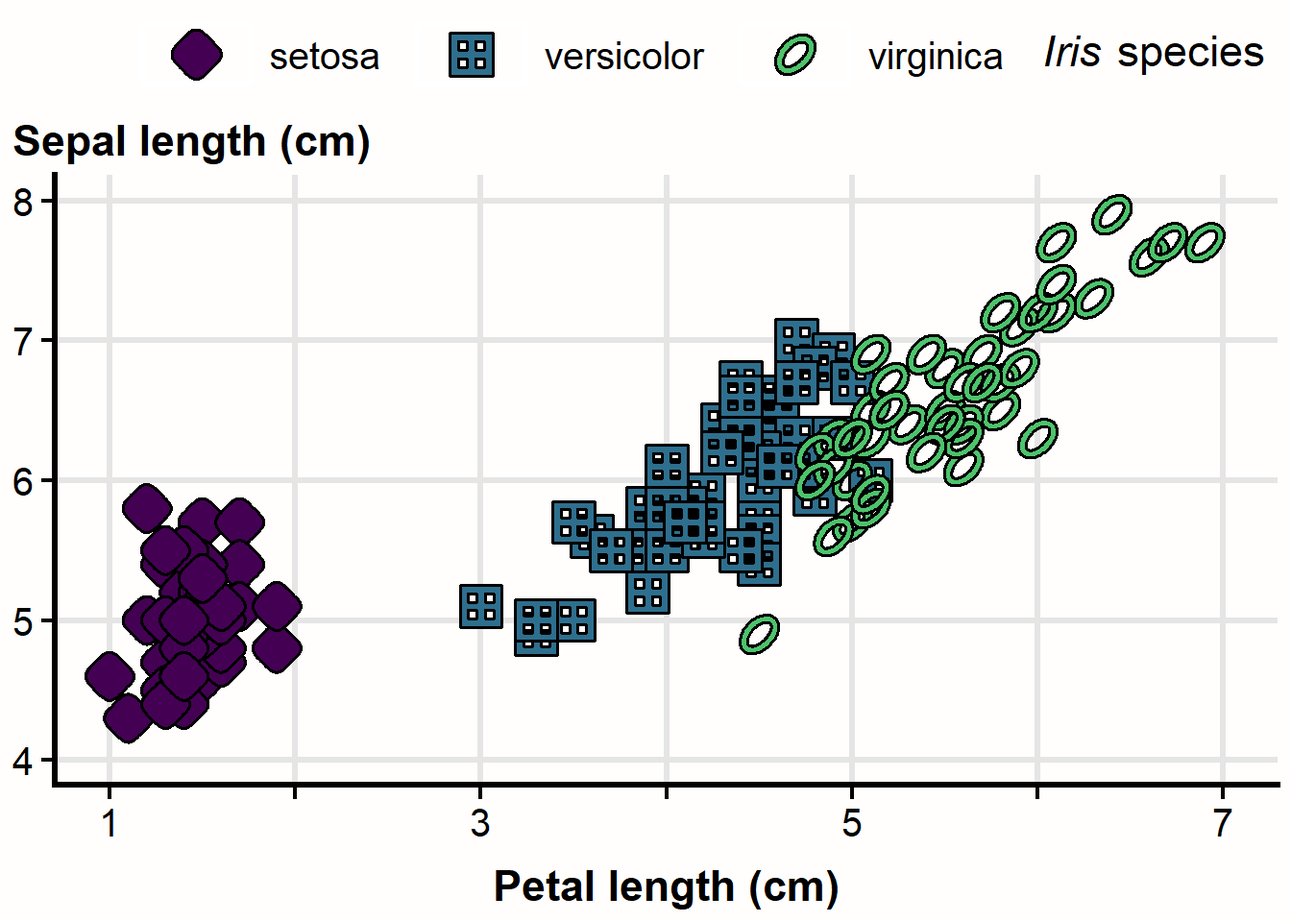
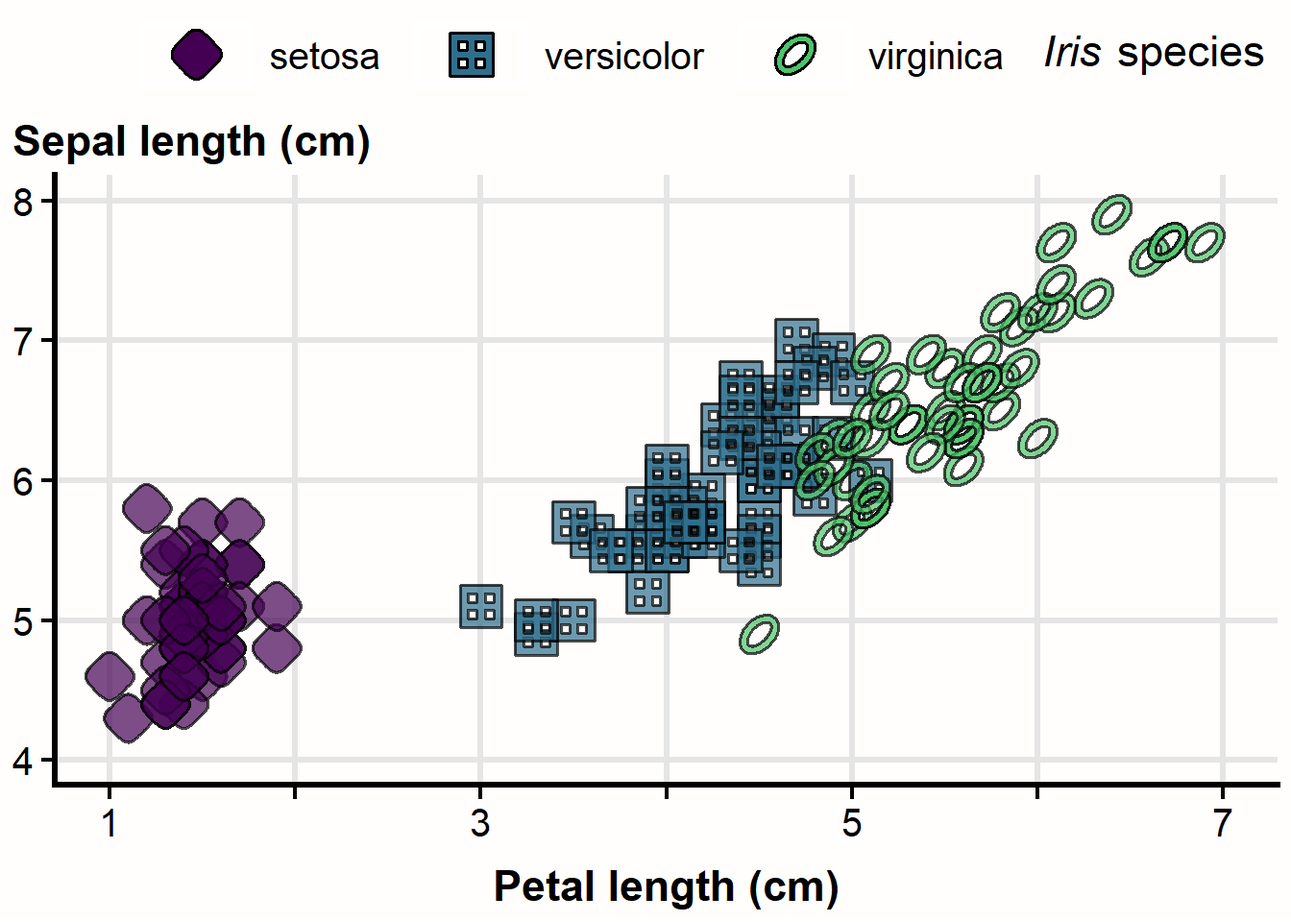
Readme enhancements

Changed region(s): [[0.3438, 0.1875, 0.9688, 0.7188], [0.0625, 0.5312, 0.25, 0.8125]]

diff --git a/readme.html b/readme.html
@@ -1,13 +1,15 @@
 <!DOCTYPE html>
-<html xmlns="http://www.w3.org/1999/xhtml" lang="en" xml:lang="en"><head>
+<html xmlns="http://www.w3.org/1999/xhtml" lang="en" xml:lang="en">
 
-<meta charset="utf-8">
-<meta name="generator" content="quarto-1.9.37">
+<head>
 
-<meta name="viewport" content="width=device-width, initial-scale=1.0, user-scalable=yes">
+<meta charset="utf-8" />
+<meta name="generator" content="quarto-1.9.37" />
 
-<meta name="author" content="Dr.&nbsp;Alex Bajcz, Quantitative Ecologist, Minnesota Aquatic Invasive Species Research Center">
-<meta name="dcterms.date" content="2026-06-17">
+<meta name="viewport" content="width=device-width, initial-scale=1.0, user-scalable=yes" />
+
+<meta name="author" content="Dr. Alex Bajcz, Quantitative Ecologist, Minnesota Aquatic Invasive Species Research Center (MAISRC)" />
+<meta name="dcterms.date" content="2026-06-18" />
 
 <title>readme</title>
 <style>
@@ -62,27 +64,16 @@ pre > code.sourceCode > span > a:first-child::before { text-decoration: underlin
 }
 </style>
 
-
-<script src="README_files/libs/clipboard/clipboard.min.js"></script>
-<script src="README_files/libs/quarto-html/quarto.js" type="module"></script>
-<script src="README_files/libs/quarto-html/tabsets/tabsets.js" type="module"></script>
-<script src="README_files/libs/quarto-html/popper.min.js"></script>
-<script src="README_files/libs/quarto-html/tippy.umd.min.js"></script>
-<script src="README_files/libs/quarto-html/anchor.min.js"></script>
-<link href="README_files/libs/quarto-html/tippy.css" rel="stylesheet">
-<link href="README_files/libs/quarto-html/quarto-syntax-highlighting-7f8f88aac4f3542376d5c11b86a4c14d.css" rel="stylesheet" id="quarto-text-highlighting-styles">
-<script src="README_files/libs/bootstrap/bootstrap.min.js"></script>
-<link href="README_files/libs/bootstrap/bootstrap-icons.css" rel="stylesheet">
-<link href="README_files/libs/bootstrap/bootstrap-98fa28be62b8f7881547832ee57e92b3.min.css" rel="stylesheet" append-hash="true" id="quarto-bootstrap" data-mode="light">
+<!-- htmldependencies:E3FAD763 -->
 
 
 </head>
 
-<body class="quarto-light">
+<body>
 
 <div id="quarto-content" class="page-columns page-rows-contents page-layout-article">
 <div id="quarto-margin-sidebar" class="sidebar margin-sidebar">
-<div class="quarto-alternate-formats"><h2>Other Formats</h2><ul><li><a href="README.md"><i class="bi bi-file-code"></i>Github (GFM)</a></li></ul></div></div>
+</div>
 <main class="content" id="quarto-document-content">
 
 <header id="title-block-header" class="quarto-title-block default">
@@ -96,14 +87,14 @@ pre > code.sourceCode > span > a:first-child::before { text-decoration: underlin
     <div>
     <div class="quarto-title-meta-heading">Author</div>
     <div class="quarto-title-meta-contents">
-             <p>Dr.&nbsp;Alex Bajcz, Quantitative Ecologist, Minnesota Aquatic Invasive Species Research Center </p>
+             <p>Dr. Alex Bajcz, Quantitative Ecologist, Minnesota Aquatic Invasive Species Research Center (MAISRC) </p>
           </div>
   </div>
     
     <div>
     <div class="quarto-title-meta-heading">Published</div>
     <div class="quarto-title-meta-contents">
-      <p class="date">June 17, 2026</p>
+      <p class="date">June 18, 2026</p>
     </div>
   </div>
   
@@ -115,187 +106,217 @@ pre > code.sourceCode > span > a:first-child::before { text-decoration: underlin
 </header>
 
 
-<p><img src="man/figures/ggplotplus_hex.png" alt="ggplotplus hex sticker" style="float: right; width: 180px;"></p>
+<p><img src="man/figures/ggplotplus_hex.png" alt="ggplotplus hex sticker" style="float: right; width: 180px;"/></p>
 <section id="ggplotplus-universal-design-additions-for-ggplot2" class="level1">
 <h1><em>ggplotplus</em> – Universal Design additions for <em>ggplot2</em></h1>
+<section id="whats-ggplotplus-for" class="level2">
+<h2>What’s <code>ggplotplus</code> for?</h2>
+<p><code>ggplot2</code> is an <em>extraordinarily</em> powerful graphics package, used by perhaps millions to produce graphs for posters, presentations, papers, and exploration. <code>ggplotplus</code> enhances <code>ggplot2</code> by:</p>
+<ol type="1">
+<li><p>Providing tools that override many of <code>ggplot2</code>’s less-than-fully-accessible default design aspects so creating graphs that adhere to design best practices is easier and quicker.</p></li>
+<li><p>Enabling some design options–such as custom point shapes in scatterplots, direct group labeling, and relocation of the y-axis title–that are currently impossible via a single function call in <code>ggplot2</code>.</p></li>
+<li><p>Attempting to lower the learning curve and bandwidth required to make high-quality, Universal-Design-oriented graphs, ready for publication and sharing, using <code>ggplot2</code>.</p></li>
+</ol>
+<p>In particular, <code>ggplotplus</code> is for anyone who wants or needs to use <code>ggplot2</code> but has limited time, skill, energy, patience, experience, etc. with which to devote to learning its many nuances. However, given its evidence-based approach to graph design, the package is for everyone who wants to build defensible, maximally consumable graphs quickly and with a fraction of the fiddly customization often required to get a typical ggplot up to the most exacting design standards. Plus, <code>ggplotplus</code> has a few tricks to offer that, at present, aren’t available via a single function call anywhere else–read on for details!</p>
+</section>
 <section id="quick-start-guide" class="level2">
-<h2 class="anchored" data-anchor-id="quick-start-guide">Quick Start Guide</h2>
-<p>To begin using the <code>ggplotplus</code> package, first install the latest, development version from GitHub using the pak package:</p>
+<h2>Quick Start Guide</h2>
+<p>To begin using <code>ggplotplus</code>, first install the latest development version from GitHub using the pak package:</p>
 <div class="cell">
-<div class="code-copy-outer-scaffold"><div class="sourceCode cell-code" id="cb1"><pre class="sourceCode r code-with-copy"><code class="sourceCode r"><span id="cb1-1"><a href="#cb1-1" aria-hidden="true" tabindex="-1"></a><span class="co"># install.packages("devtools")  #IF NOT ALREADY INSTALLED</span></span>
-<span id="cb1-2"><a href="#cb1-2" aria-hidden="true" tabindex="-1"></a>pak<span class="sc">::</span><span class="fu">pak</span>(<span class="st">"MAISRC/ggplotplus"</span>)</span></code></pre></div><button title="Copy to Clipboard" class="code-copy-button"><i class="bi"></i></button></div>
+<div class="sourceCode" id="cb1"><pre class="sourceCode r cell-code"><code class="sourceCode r"><span id="cb1-1"><a href="#cb1-1" aria-hidden="true" tabindex="-1"></a><span class="co"># install.packages(&quot;devtools&quot;)  #IF NOT ALREADY INSTALLED</span></span>
+<span id="cb1-2"><a href="#cb1-2" aria-hidden="true" tabindex="-1"></a>pak<span class="sc">::</span><span class="fu">pak</span>(<span class="st">&quot;MAISRC/ggplotplus&quot;</span>)</span></code></pre></div>
 </div>
 <p>Or, alternatively, install the latest stable version from CRAN:</p>
 <div class="cell">
-<div class="code-copy-outer-scaffold"><div class="sourceCode cell-code" id="cb2"><pre class="sourceCode r code-with-copy"><code class="sourceCode r"><span id="cb2-1"><a href="#cb2-1" aria-hidden="true" tabindex="-1"></a><span class="fu">install.packages</span>(<span class="st">"ggplotplus"</span>)</span></code></pre></div><button title="Copy to Clipboard" class="code-copy-button"><i class="bi"></i></button></div>
+<div class="sourceCode" id="cb2"><pre class="sourceCode r cell-code"><code class="sourceCode r"><span id="cb2-1"><a href="#cb2-1" aria-hidden="true" tabindex="-1"></a><span class="fu">install.packages</span>(<span class="st">&quot;ggplotplus&quot;</span>)</span></code></pre></div>
 </div>
-<p>Then, either way, load it alongside <code>ggplot2</code>:</p>
+<p>Then, load it alongside <code>ggplot2</code>:</p>
 <div class="cell">
-<div class="code-copy-outer-scaffold"><div class="sourceCode cell-code" id="cb3"><pre class="sourceCode r code-with-copy"><code class="sourceCode r"><span id="cb3-1"><a href="#cb3-1" aria-hidden="true" tabindex="-1"></a><span class="co"># install.packages("ggplot2")  #IF NOT ALREADY INSTALLED</span></span>
+<div class="sourceCode" id="cb3"><pre class="sourceCode r cell-code"><code class="sourceCode r"><span id="cb3-1"><a href="#cb3-1" aria-hidden="true" tabindex="-1"></a><span class="co"># install.packages(&quot;ggplot2&quot;)  #IF NOT ALREADY INSTALLED</span></span>
 <span id="cb3-2"><a href="#cb3-2" aria-hidden="true" tabindex="-1"></a><span class="fu">library</span>(ggplot2)</span>
-<span id="cb3-3"><a href="#cb3-3" aria-hidden="true" tabindex="-1"></a><span class="fu">library</span>(ggplotplus)</span></code></pre></div><button title="Copy to Clipboard" class="code-copy-button"><i class="bi"></i></button></div>
+<span id="cb3-3"><a href="#cb3-3" aria-hidden="true" tabindex="-1"></a><span class="fu">library</span>(ggplotplus)</span></code></pre></div>
 </div>
-<p>Once loaded, you can start layering its <code>_plus()</code> tools onto your <code>ggplot2</code> calls to improve their base design with minimal effort.</p>
+<p>Once loaded, you can start layering its <code>_plus()</code> tools onto your <code>ggplot2</code> calls to improve their design quickly and with minimal effort!</p>
 <section id="using-the-tools" class="level3">
-<h3 class="anchored" data-anchor-id="using-the-tools">Using the tools</h3>
-<p>To access changes to <code>ggplot2</code>’s default design choices related to default color palettes, common geometry layers, and theme specifications, just add <code>theme_plus()</code> to your <code>ggplot2</code> calls:</p>
+<h3>Using the tools</h3>
+<p>Here’s a basic, default <code>ggplot2</code> as a point of comparison:</p>
 <div class="cell">
-<div class="code-copy-outer-scaffold"><div class="sourceCode cell-code" id="cb4"><pre class="sourceCode r code-with-copy"><code class="sourceCode r"><span id="cb4-1"><a href="#cb4-1" aria-hidden="true" tabindex="-1"></a><span class="fu">ggplot</span>(iris, </span>
+<div class="sourceCode" id="cb4"><pre class="sourceCode r cell-code"><code class="sourceCode r"><span id="cb4-1"><a href="#cb4-1" aria-hidden="true" tabindex="-1"></a><span class="fu">ggplot</span>(iris, </span>
 <span id="cb4-2"><a href="#cb4-2" aria-hidden="true" tabindex="-1"></a>       <span class="at">mapping =</span> <span class="fu">aes</span>(<span class="at">x =</span> Petal.Length, </span>
 <span id="cb4-3"><a href="#cb4-3" aria-hidden="true" tabindex="-1"></a>                     <span class="at">y =</span> Sepal.Length)) <span class="sc">+</span></span>
-<span id="cb4-4"><a href="#cb4-4" aria-hidden="true" tabindex="-1"></a>  <span class="fu">geom_point</span>(<span class="at">mapping =</span> <span class="fu">aes</span>(<span class="at">color =</span> Species)) <span class="sc">+</span> </span>
-<span id="cb4-5"><a href="#cb4-5" aria-hidden="true" tabindex="-1"></a>  <span class="fu">theme_plus</span>() <span class="co">#&lt;--OVERHAULS THEME, GEOM, AND PALETTE RELATED DEFAULTS IN MANY WAYS. </span></span></code></pre></div><button title="Copy to Clipboard" class="code-copy-button"><i class="bi"></i></button></div>
+<span id="cb4-4"><a href="#cb4-4" aria-hidden="true" tabindex="-1"></a>  <span class="fu">geom_point</span>(<span class="at">mapping =</span> <span class="fu">aes</span>(<span class="at">color =</span> Species)) </span></code></pre></div>
 <div class="cell-output-display">
 <div>
-<figure class="figure">
-<p><img src="README_files/figure-html/quick%20start%20use-1.png" class="img-fluid figure-img" width="672"></p>
+<figure>
+<p><img src="README_files/figure-html/point%20of%20comparison-1.png" class="img-fluid" width="672" /></p>
 </figure>
 </div>
 </div>
 </div>
-</section>
-<section id="taking-it-a-step-further" class="level3">
-<h3 class="anchored" data-anchor-id="taking-it-a-step-further">Taking it a step further</h3>
-<p>If you want to add thoughtful gridlines, bolster your continuous scales, and/or move your y-axis title to somewhere more thoughtful, add <code>gridlines_plus()</code>, <code>scale_continuous_plus()</code>, and <code>yaxis_title_plus()</code> to your ggplot calls, respective:</p>
+<p>The biggest single change you can make to the design of your graphs via <code>ggplotplus</code> is via its <code>theme_plus()</code> function, which overrides a suite of <code>ggplot2</code>’s default design choices related to default color palettes, common geometry layers, and layout parameters:</p>
 <div class="cell">
-<div class="code-copy-outer-scaffold"><div class="sourceCode cell-code" id="cb5"><pre class="sourceCode r code-with-copy"><code class="sourceCode r"><span id="cb5-1"><a href="#cb5-1" aria-hidden="true" tabindex="-1"></a><span class="fu">ggplot</span>(iris, </span>
+<div class="sourceCode" id="cb5"><pre class="sourceCode r cell-code"><code class="sourceCode r"><span id="cb5-1"><a href="#cb5-1" aria-hidden="true" tabindex="-1"></a><span class="fu">ggplot</span>(iris, </span>
 <span id="cb5-2"><a href="#cb5-2" aria-hidden="true" tabindex="-1"></a>       <span class="at">mapping =</span> <span class="fu">aes</span>(<span class="at">x =</span> Petal.Length, </span>
 <span id="cb5-3"><a href="#cb5-3" aria-hidden="true" tabindex="-1"></a>                     <span class="at">y =</span> Sepal.Length)) <span class="sc">+</span></span>
 <span id="cb5-4"><a href="#cb5-4" aria-hidden="true" tabindex="-1"></a>  <span class="fu">geom_point</span>(<span class="at">mapping =</span> <span class="fu">aes</span>(<span class="at">color =</span> Species)) <span class="sc">+</span> </span>
-<span id="cb5-5"><a href="#cb5-5" aria-hidden="true" tabindex="-1"></a>  <span class="fu">theme_plus</span>() <span class="sc">+</span></span>
-<span id="cb5-6"><a href="#cb5-6" aria-hidden="true" tabindex="-1"></a>  <span class="fu">scale_continuous_plus</span>( <span class="co">#&lt;--OVERHAULS AXIS BREAKS AND LIMITS (FOR CONTINUOUS AXES ONLY!)</span></span>
-<span id="cb5-7"><a href="#cb5-7" aria-hidden="true" tabindex="-1"></a>    <span class="at">scale =</span> <span class="st">"x"</span>,</span>
-<span id="cb5-8"><a href="#cb5-8" aria-hidden="true" tabindex="-1"></a>    <span class="at">name =</span> <span class="st">"Petal length (cm)"</span>,</span>
-<span id="cb5-9"><a href="#cb5-9" aria-hidden="true" tabindex="-1"></a>    <span class="at">thin.labels =</span> <span class="cn">TRUE</span>) <span class="sc">+</span>  </span>
-<span id="cb5-10"><a href="#cb5-10" aria-hidden="true" tabindex="-1"></a>  <span class="fu">scale_continuous_plus</span>(</span>
-<span id="cb5-11"><a href="#cb5-11" aria-hidden="true" tabindex="-1"></a>    <span class="at">scale =</span> <span class="st">"y"</span>, </span>
-<span id="cb5-12"><a href="#cb5-12" aria-hidden="true" tabindex="-1"></a>    <span class="at">name =</span> <span class="st">"Sepal length (cm)"</span>) <span class="sc">+</span></span>
-<span id="cb5-13"><a href="#cb5-13" aria-hidden="true" tabindex="-1"></a>  <span class="fu">yaxis_title_plus</span>() <span class="sc">+</span> <span class="co">#&lt;--RELOCATES AND RE-ORIENTS Y AXIS TITLE.</span></span>
-<span id="cb5-14"><a href="#cb5-14" aria-hidden="true" tabindex="-1"></a>  <span class="fu">gridlines_plus</span>() <span class="sc">+</span> <span class="co">#&lt;--ADDS THOUGHTFUL GRIDLINES, IF YOU *REALLY* WANT THEM.</span></span>
-<span id="cb5-15"><a href="#cb5-15" aria-hidden="true" tabindex="-1"></a>  <span class="fu">labs</span>(<span class="at">color =</span> <span class="fu">expression</span>(<span class="fu">italic</span>(<span class="st">"Iris"</span>)<span class="sc">*</span><span class="st">" species"</span>)) <span class="co">#&lt;--THIS IS BASE GGPLOT2, BUT A NICE TOUCH!</span></span></code></pre></div><button title="Copy to Clipboard" class="code-copy-button"><i class="bi"></i></button></div>
+<span id="cb5-5"><a href="#cb5-5" aria-hidden="true" tabindex="-1"></a>  <span class="fu">theme_plus</span>() <span class="co">#&lt;--OVERHAULS THEME, GEOM, AND PALETTE RELATED DEFAULTS IN MANY WAYS. </span></span></code></pre></div>
 <div class="cell-output-display">
 <div>
-<figure class="figure">
-<p><img src="README_files/figure-html/even%20more%20tools-1.png" class="img-fluid figure-img" width="672"></p>
+<figure>
+<p><img src="README_files/figure-html/quick%20start%20use-1.png" class="img-fluid" width="672" /></p>
 </figure>
 </div>
 </div>
 </div>
+<p>Do a quick comparison between this graph and the last one; <code>ggplotplus</code> adjusts nearly every aspect’s of a ggplot’s design in an effort to make them cleaner and more accessible.</p>
 </section>
-</section>
-<section id="thinking-differently" class="level2">
-<h2 class="anchored" data-anchor-id="thinking-differently">Thinking differently</h2>
-<p>Rather than using a legend at all, you can use <code>direct_labels_plus()</code> to label the points directly:</p>
+<section id="taking-it-further" class="level3">
+<h3>Taking it further</h3>
+<p>If you want to add thoughtful gridlines, polish the appearance of your continuous scales, and/or move your y-axis title to somewhere more thoughtful and easier to read, add <code>gridlines_plus()</code>, <code>scale_continuous_plus()</code>, and <code>yaxis_title_plus()</code> to your calls, respective:</p>
 <div class="cell">
-<div class="code-copy-outer-scaffold"><div class="sourceCode cell-code" id="cb6"><pre class="sourceCode r code-with-copy"><code class="sourceCode r"><span id="cb6-1"><a href="#cb6-1" aria-hidden="true" tabindex="-1"></a><span class="fu">ggplot</span>(iris, </span>
+<div class="sourceCode" id="cb6"><pre class="sourceCode r cell-code"><code class="sourceCode r"><span id="cb6-1"><a href="#cb6-1" aria-hidden="true" tabindex="-1"></a><span class="fu">ggplot</span>(iris, </span>
 <span id="cb6-2"><a href="#cb6-2" aria-hidden="true" tabindex="-1"></a>       <span class="at">mapping =</span> <span class="fu">aes</span>(<span class="at">x =</span> Petal.Length, </span>
 <span id="cb6-3"><a href="#cb6-3" aria-hidden="true" tabindex="-1"></a>                     <span class="at">y =</span> Sepal.Length)) <span class="sc">+</span></span>
 <span id="cb6-4"><a href="#cb6-4" aria-hidden="true" tabindex="-1"></a>  <span class="fu">geom_point</span>(<span class="at">mapping =</span> <span class="fu">aes</span>(<span class="at">color =</span> Species)) <span class="sc">+</span> </span>
 <span id="cb6-5"><a href="#cb6-5" aria-hidden="true" tabindex="-1"></a>  <span class="fu">theme_plus</span>() <span class="sc">+</span></span>
-<span id="cb6-6"><a href="#cb6-6" aria-hidden="true" tabindex="-1"></a>  <span class="fu">scale_continuous_plus</span>(</span>
-<span id="cb6-7"><a href="#cb6-7" aria-hidden="true" tabindex="-1"></a>    <span class="at">scale =</span> <span class="st">"x"</span>,</span>
-<span id="cb6-8"><a href="#cb6-8" aria-hidden="true" tabindex="-1"></a>    <span class="at">name =</span> <span class="st">"Petal length (cm)"</span>,</span>
+<span id="cb6-6"><a href="#cb6-6" aria-hidden="true" tabindex="-1"></a>  <span class="fu">scale_continuous_plus</span>( <span class="co">#&lt;--OVERHAULS AXIS BREAKS AND LIMITS (FOR CONTINUOUS SCALES ONLY!)</span></span>
+<span id="cb6-7"><a href="#cb6-7" aria-hidden="true" tabindex="-1"></a>    <span class="at">scale =</span> <span class="st">&quot;x&quot;</span>,</span>
+<span id="cb6-8"><a href="#cb6-8" aria-hidden="true" tabindex="-1"></a>    <span class="at">name =</span> <span class="st">&quot;Petal length (cm)&quot;</span>,</span>
 <span id="cb6-9"><a href="#cb6-9" aria-hidden="true" tabindex="-1"></a>    <span class="at">thin.labels =</span> <span class="cn">TRUE</span>) <span class="sc">+</span>  </span>
 <span id="cb6-10"><a href="#cb6-10" aria-hidden="true" tabindex="-1"></a>  <span class="fu">scale_continuous_plus</span>(</span>
-<span id="cb6-11"><a href="#cb6-11" aria-hidden="true" tabindex="-1"></a>    <span class="at">scale =</span> <span class="st">"y"</span>, </span>
-<span id="cb6-12"><a href="#cb6-12" aria-hidden="true" tabindex="-1"></a>    <span class="at">name =</span> <span class="st">"Sepal length (cm)"</span>) <span class="sc">+</span></span>
-<span id="cb6-13"><a href="#cb6-13" aria-hidden="true" tabindex="-1"></a>  <span class="fu">yaxis_title_plus</span>() <span class="sc">+</span> </span>
-<span id="cb6-14"><a href="#cb6-14" aria-hidden="true" tabindex="-1"></a>  <span class="fu">gridlines_plus</span>() <span class="sc">+</span> </span>
-<span id="cb6-15"><a href="#cb6-15" aria-hidden="true" tabindex="-1"></a>  <span class="fu">labs</span>(<span class="at">color =</span> <span class="fu">expression</span>(<span class="fu">italic</span>(<span class="st">"Iris"</span>)<span class="sc">*</span><span class="st">" species"</span>)) <span class="sc">+</span></span>
-<span id="cb6-16"><a href="#cb6-16" aria-hidden="true" tabindex="-1"></a>  <span class="fu">direct_labels_plus</span>(<span class="at">data =</span> iris, <span class="co">#&lt;--HELP THE FUNCTION UNDERSTAND HOW YOUR DATA WORK...</span></span>
-<span id="cb6-17"><a href="#cb6-17" aria-hidden="true" tabindex="-1"></a>                     <span class="at">x =</span> Petal.Length,</span>
-<span id="cb6-18"><a href="#cb6-18" aria-hidden="true" tabindex="-1"></a>                     <span class="at">y =</span> Sepal.Length,</span>
-<span id="cb6-19"><a href="#cb6-19" aria-hidden="true" tabindex="-1"></a>                     <span class="at">group =</span> Species) <span class="sc">+</span> <span class="co">#&lt;--AND WHAT VARIABLE DETERMINES THE GROUPS, AND THE FUNCTION DOES THE REST.</span></span>
-<span id="cb6-20"><a href="#cb6-20" aria-hidden="true" tabindex="-1"></a>  <span class="fu">guides</span>(<span class="at">color =</span> <span class="st">"none"</span>) <span class="co">#&lt;--OPTIONAL, TURN THE LEGEND OFF.</span></span></code></pre></div><button title="Copy to Clipboard" class="code-copy-button"><i class="bi"></i></button></div>
+<span id="cb6-11"><a href="#cb6-11" aria-hidden="true" tabindex="-1"></a>    <span class="at">scale =</span> <span class="st">&quot;y&quot;</span>, </span>
+<span id="cb6-12"><a href="#cb6-12" aria-hidden="true" tabindex="-1"></a>    <span class="at">name =</span> <span class="st">&quot;Sepal length (cm)&quot;</span>) <span class="sc">+</span></span>
+<span id="cb6-13"><a href="#cb6-13" aria-hidden="true" tabindex="-1"></a>  <span class="fu">yaxis_title_plus</span>() <span class="sc">+</span> <span class="co">#&lt;--RELOCATES AND RE-ORIENTS Y AXIS TITLE.</span></span>
+<span id="cb6-14"><a href="#cb6-14" aria-hidden="true" tabindex="-1"></a>  <span class="fu">gridlines_plus</span>() <span class="sc">+</span> <span class="co">#&lt;--ADDS THOUGHTFUL GRIDLINES, IF YOU *REALLY* WANT THEM.</span></span>
+<span id="cb6-15"><a href="#cb6-15" aria-hidden="true" tabindex="-1"></a>  <span class="fu">labs</span>(<span class="at">color =</span> <span class="fu">expression</span>(<span class="fu">italic</span>(<span class="st">&quot;Iris&quot;</span>)<span class="sc">*</span><span class="st">&quot; species&quot;</span>)) <span class="co">#&lt;--THIS IS BASE GGPLOT2, BUT A NICE TOUCH!</span></span></code></pre></div>
 <div class="cell-output-display">
 <div>
-<figure class="figure">
-<p><img src="README_files/figure-html/direct%20labelling-1.png" class="img-fluid figure-img" width="672"></p>
+<figure>
+<p><img src="README_files/figure-html/even%20more%20tools-1.png" class="img-fluid" width="672" /></p>
 </figure>
 </div>
 </div>
 </div>
-<p>Another option: Call visual attention to one of the groups over all others. <code>scale_focus_plus()</code> makes doing this easy:</p>
+<p>Notice how, in this version, gridlines are subtle but still legible, axes are more fully labelled, and the y-axis title is much easier to spot and read.</p>
+</section>
+</section>
+<section id="thinking-differently-about-graph-design" class="level2">
+<h2>Thinking differently about graph design</h2>
+<p>Rather than using a legend at all, you can use <code>direct_labels_plus()</code> to label the groups directly within the plotting area:</p>
 <div class="cell">
-<div class="code-copy-outer-scaffold"><div class="sourceCode cell-code" id="cb7"><pre class="sourceCode r code-with-copy"><code class="sourceCode r"><span id="cb7-1"><a href="#cb7-1" aria-hidden="true" tabindex="-1"></a><span class="fu">ggplot</span>(iris, </span>
+<div class="sourceCode" id="cb7"><pre class="sourceCode r cell-code"><code class="sourceCode r"><span id="cb7-1"><a href="#cb7-1" aria-hidden="true" tabindex="-1"></a><span class="fu">ggplot</span>(iris, </span>
 <span id="cb7-2"><a href="#cb7-2" aria-hidden="true" tabindex="-1"></a>       <span class="at">mapping =</span> <span class="fu">aes</span>(<span class="at">x =</span> Petal.Length, </span>
 <span id="cb7-3"><a href="#cb7-3" aria-hidden="true" tabindex="-1"></a>                     <span class="at">y =</span> Sepal.Length)) <span class="sc">+</span></span>
 <span id="cb7-4"><a href="#cb7-4" aria-hidden="true" tabindex="-1"></a>  <span class="fu">geom_point</span>(<span class="at">mapping =</span> <span class="fu">aes</span>(<span class="at">color =</span> Species)) <span class="sc">+</span> </span>
 <span id="cb7-5"><a href="#cb7-5" aria-hidden="true" tabindex="-1"></a>  <span class="fu">theme_plus</span>() <span class="sc">+</span></span>
 <span id="cb7-6"><a href="#cb7-6" aria-hidden="true" tabindex="-1"></a>  <span class="fu">scale_continuous_plus</span>(</span>
-<span id="cb7-7"><a href="#cb7-7" aria-hidden="true" tabindex="-1"></a>    <span class="at">scale =</span> <span class="st">"x"</span>,</span>
-<span id="cb7-8"><a href="#cb7-8" aria-hidden="true" tabindex="-1"></a>    <span class="at">name =</span> <span class="st">"Petal length (cm)"</span>,</span>
+<span id="cb7-7"><a href="#cb7-7" aria-hidden="true" tabindex="-1"></a>    <span class="at">scale =</span> <span class="st">&quot;x&quot;</span>,</span>
+<span id="cb7-8"><a href="#cb7-8" aria-hidden="true" tabindex="-1"></a>    <span class="at">name =</span> <span class="st">&quot;Petal length (cm)&quot;</span>,</span>
 <span id="cb7-9"><a href="#cb7-9" aria-hidden="true" tabindex="-1"></a>    <span class="at">thin.labels =</span> <span class="cn">TRUE</span>) <span class="sc">+</span>  </span>
 <span id="cb7-10"><a href="#cb7-10" aria-hidden="true" tabindex="-1"></a>  <span class="fu">scale_continuous_plus</span>(</span>
-<span id="cb7-11"><a href="#cb7-11" aria-hidden="true" tabindex="-1"></a>    <span class="at">scale =</span> <span class="st">"y"</span>, </span>
-<span id="cb7-12"><a href="#cb7-12" aria-hidden="true" tabindex="-1"></a>    <span class="at">name =</span> <span class="st">"Sepal length (cm)"</span>) <span class="sc">+</span></span>
+<span id="cb7-11"><a href="#cb7-11" aria-hidden="true" tabindex="-1"></a>    <span class="at">scale =</span> <span class="st">&quot;y&quot;</span>, </span>
+<span id="cb7-12"><a href="#cb7-12" aria-hidden="true" tabindex="-1"></a>    <span class="at">name =</span> <span class="st">&quot;Sepal length (cm)&quot;</span>) <span class="sc">+</span></span>
 <span id="cb7-13"><a href="#cb7-13" aria-hidden="true" tabindex="-1"></a>  <span class="fu">yaxis_title_plus</span>() <span class="sc">+</span> </span>
 <span id="cb7-14"><a href="#cb7-14" aria-hidden="true" tabindex="-1"></a>  <span class="fu">gridlines_plus</span>() <span class="sc">+</span> </span>
-<span id="cb7-15"><a href="#cb7-15" aria-hidden="true" tabindex="-1"></a>  <span class="fu">labs</span>(<span class="at">color =</span> <span class="fu">expression</span>(<span class="fu">italic</span>(<span class="st">"Iris"</span>)<span class="sc">*</span><span class="st">" species"</span>)) <span class="sc">+</span></span>
-<span id="cb7-16"><a href="#cb7-16" aria-hidden="true" tabindex="-1"></a>  <span class="fu">scale_focus_plus</span>(<span class="at">aes =</span> <span class="st">"color"</span>, </span>
-<span id="cb7-17"><a href="#cb7-17" aria-hidden="true" tabindex="-1"></a>                   <span class="at">group_var =</span> iris<span class="sc">$</span>Species, <span class="co">#&lt;--HELP THE FUNCTION UNDERSTAND YOUR DATA.</span></span>
-<span id="cb7-18"><a href="#cb7-18" aria-hidden="true" tabindex="-1"></a>                   <span class="at">focal_groups =</span> <span class="st">"versicolor"</span>,</span>
-<span id="cb7-19"><a href="#cb7-19" aria-hidden="true" tabindex="-1"></a>                   <span class="at">diff_nonfocal =</span> <span class="cn">TRUE</span> <span class="co">#&lt;--KEEP NON-FOCAL GROUPS DISTINCT.</span></span>
-<span id="cb7-20"><a href="#cb7-20" aria-hidden="true" tabindex="-1"></a>                  )</span></code></pre></div><button title="Copy to Clipboard" class="code-copy-button"><i class="bi"></i></button></div>
+<span id="cb7-15"><a href="#cb7-15" aria-hidden="true" tabindex="-1"></a>  <span class="fu">labs</span>(<span class="at">color =</span> <span class="fu">expression</span>(<span class="fu">italic</span>(<span class="st">&quot;Iris&quot;</span>)<span class="sc">*</span><span class="st">&quot; species&quot;</span>)) <span class="sc">+</span></span>
+<span id="cb7-16"><a href="#cb7-16" aria-hidden="true" tabindex="-1"></a>  <span class="fu">direct_labels_plus</span>(<span class="at">data =</span> iris, <span class="co">#&lt;--HELP THE FUNCTION UNDERSTAND HOW YOUR DATA LOOK...</span></span>
+<span id="cb7-17"><a href="#cb7-17" aria-hidden="true" tabindex="-1"></a>                     <span class="at">x =</span> Petal.Length,</span>
+<span id="cb7-18"><a href="#cb7-18" aria-hidden="true" tabindex="-1"></a>                     <span class="at">y =</span> Sepal.Length,</span>
+<span id="cb7-19"><a href="#cb7-19" aria-hidden="true" tabindex="-1"></a>                     <span class="at">group =</span> Species) <span class="sc">+</span> <span class="co">#&lt;--...AND WHAT VARIABLE DETERMINES THE GROUPS.</span></span>
+<span id="cb7-20"><a href="#cb7-20" aria-hidden="true" tabindex="-1"></a>  <span class="fu">guides</span>(<span class="at">color =</span> <span class="st">&quot;none&quot;</span>) <span class="co">#&lt;--OPTIONALLY, TURN THE LEGEND OFF.</span></span></code></pre></div>
 <div class="cell-output-display">
 <div>
-<figure class="figure">
-<p><img src="README_files/figure-html/unnamed-chunk-1-1.png" class="img-fluid figure-img" width="672"></p>
+<figure>
+<p><img src="README_files/figure-html/direct%20labelling-1.png" class="img-fluid" width="672" /></p>
 </figure>
 </div>
 </div>
 </div>
-<section id="trying-out-some-new-shapes" class="level3">
-<h3 class="anchored" data-anchor-id="trying-out-some-new-shapes">Trying out some new shapes</h3>
-<p><code>ggplotplus</code> also introduces a new palette of shapes designed to be more distinctive than the base point shapes available in R, accessible using <code>geom_point_plus()</code>:</p>
+<p>With this approach, the legend becomes optional, saving space, increasing data density, and concentrating vital information close to where the reader most needs and expects it.</p>
+<p>Another option: Call the reader’s attention to one or some of the groups over others. <code>scale_focus_plus()</code> makes doing this easy:</p>
 <div class="cell">
-<div class="code-copy-outer-scaffold"><div class="sourceCode cell-code" id="cb8"><pre class="sourceCode r code-with-copy"><code class="sourceCode r"><span id="cb8-1"><a href="#cb8-1" aria-hidden="true" tabindex="-1"></a><span class="fu">ggplot</span>(iris, </span>
+<div class="sourceCode" id="cb8"><pre class="sourceCode r cell-code"><code class="sourceCode r"><span id="cb8-1"><a href="#cb8-1" aria-hidden="true" tabindex="-1"></a><span class="fu">ggplot</span>(iris, </span>
 <span id="cb8-2"><a href="#cb8-2" aria-hidden="true" tabindex="-1"></a>       <span class="at">mapping =</span> <span class="fu">aes</span>(<span class="at">x =</span> Petal.Length, </span>
 <span id="cb8-3"><a href="#cb8-3" aria-hidden="true" tabindex="-1"></a>                     <span class="at">y =</span> Sepal.Length)) <span class="sc">+</span></span>
-<span id="cb8-4"><a href="#cb8-4" aria-hidden="true" tabindex="-1"></a>  <span class="fu">geom_point_plus</span>( <span class="co">#&lt;--SWITCH TO THIS FUNCTION TO ACCESS THE NEW SHAPES</span></span>
-<span id="cb8-5"><a href="#cb8-5" aria-hidden="true" tabindex="-1"></a>    <span class="at">mapping =</span> <span class="fu">aes</span>(<span class="at">shape =</span> Species, <span class="co">#&lt;--YOU MUST MAP SHAPE HERE TO A VARIABLE OR CONSTANT</span></span>
-<span id="cb8-6"><a href="#cb8-6" aria-hidden="true" tabindex="-1"></a>                  <span class="at">fill =</span> Species),</span>
-<span id="cb8-7"><a href="#cb8-7" aria-hidden="true" tabindex="-1"></a>    <span class="at">chosen_shapes =</span> <span class="fu">c</span>(<span class="st">"squircle"</span>, <span class="co">#&lt;--CHOOSE YOUR CUSTOM SHAPES, IF DESIRED.</span></span>
-<span id="cb8-8"><a href="#cb8-8" aria-hidden="true" tabindex="-1"></a>                      <span class="st">"waffle"</span>,</span>
-<span id="cb8-9"><a href="#cb8-9" aria-hidden="true" tabindex="-1"></a>                      <span class="st">"oval"</span>)</span>
-<span id="cb8-10"><a href="#cb8-10" aria-hidden="true" tabindex="-1"></a>    ) <span class="sc">+</span> </span>
-<span id="cb8-11"><a href="#cb8-11" aria-hidden="true" tabindex="-1"></a>  <span class="fu">theme_plus</span>() <span class="sc">+</span></span>
-<span id="cb8-12"><a href="#cb8-12" aria-hidden="true" tabindex="-1"></a>  <span class="fu">scale_continuous_plus</span>(</span>
-<span id="cb8-13"><a href="#cb8-13" aria-hidden="true" tabindex="-1"></a>    <span class="at">scale =</span> <span class="st">"x"</span>,</span>
-<span id="cb8-14"><a href="#cb8-14" aria-hidden="true" tabindex="-1"></a>    <span class="at">name =</span> <span class="st">"Petal length (cm)"</span>,</span>
-<span id="cb8-15"><a href="#cb8-15" aria-hidden="true" tabindex="-1"></a>    <span class="at">thin.labels =</span> <span class="cn">TRUE</span>) <span class="sc">+</span>  </span>
-<span id="cb8-16"><a href="#cb8-16" aria-hidden="true" tabindex="-1"></a>  <span class="fu">scale_continuous_plus</span>(</span>
-<span id="cb8-17"><a href="#cb8-17" aria-hidden="true" tabindex="-1"></a>    <span class="at">scale =</span> <span class="st">"y"</span>, </span>
-<span id="cb8-18"><a href="#cb8-18" aria-hidden="true" tabindex="-1"></a>    <span class="at">name =</span> <span class="st">"Sepal length (cm)"</span>) <span class="sc">+</span></span>
-<span id="cb8-19"><a href="#cb8-19" aria-hidden="true" tabindex="-1"></a>  <span class="fu">yaxis_title_plus</span>() <span class="sc">+</span></span>
-<span id="cb8-20"><a href="#cb8-20" aria-hidden="true" tabindex="-1"></a>  <span class="fu">gridlines_plus</span>() <span class="sc">+</span></span>
-<span id="cb8-21"><a href="#cb8-21" aria-hidden="true" tabindex="-1"></a>  <span class="fu">labs</span>(<span class="at">fill =</span> <span class="fu">expression</span>(<span class="fu">italic</span>(<span class="st">"Iris"</span>)<span class="sc">*</span><span class="st">" species"</span>), <span class="co">#&lt;--WE NEED BOTH SCALES TO MATCH IN NAME EXACTLY FOR THEM TO COLLAPSE INTO 1.</span></span>
-<span id="cb8-22"><a href="#cb8-22" aria-hidden="true" tabindex="-1"></a>       <span class="at">shape =</span> <span class="fu">expression</span>(<span class="fu">italic</span>(<span class="st">"Iris"</span>)<span class="sc">*</span><span class="st">" species"</span>))</span></code></pre></div><button title="Copy to Clipboard" class="code-copy-button"><i class="bi"></i></button></div>
+<span id="cb8-4"><a href="#cb8-4" aria-hidden="true" tabindex="-1"></a>  <span class="fu">geom_point</span>(<span class="at">mapping =</span> <span class="fu">aes</span>(<span class="at">color =</span> Species)) <span class="sc">+</span> </span>
+<span id="cb8-5"><a href="#cb8-5" aria-hidden="true" tabindex="-1"></a>  <span class="fu">theme_plus</span>() <span class="sc">+</span></span>
+<span id="cb8-6"><a href="#cb8-6" aria-hidden="true" tabindex="-1"></a>  <span class="fu">scale_continuous_plus</span>(</span>
+<span id="cb8-7"><a href="#cb8-7" aria-hidden="true" tabindex="-1"></a>    <span class="at">scale =</span> <span class="st">&quot;x&quot;</span>,</span>
+<span id="cb8-8"><a href="#cb8-8" aria-hidden="true" tabindex="-1"></a>    <span class="at">name =</span> <span class="st">&quot;Petal length (cm)&quot;</span>,</span>
+<span id="cb8-9"><a href="#cb8-9" aria-hidden="true" tabindex="-1"></a>    <span class="at">thin.labels =</span> <span class="cn">TRUE</span>) <span class="sc">+</span>  </span>
+<span id="cb8-10"><a href="#cb8-10" aria-hidden="true" tabindex="-1"></a>  <span class="fu">scale_continuous_plus</span>(</span>
+<span id="cb8-11"><a href="#cb8-11" aria-hidden="true" tabindex="-1"></a>    <span class="at">scale =</span> <span class="st">&quot;y&quot;</span>, </span>
+<span id="cb8-12"><a href="#cb8-12" aria-hidden="true" tabindex="-1"></a>    <span class="at">name =</span> <span class="st">&quot;Sepal length (cm)&quot;</span>) <span class="sc">+</span></span>
+<span id="cb8-13"><a href="#cb8-13" aria-hidden="true" tabindex="-1"></a>  <span class="fu">yaxis_title_plus</span>() <span class="sc">+</span> </span>
+<span id="cb8-14"><a href="#cb8-14" aria-hidden="true" tabindex="-1"></a>  <span class="fu">gridlines_plus</span>() <span class="sc">+</span> </span>
+<span id="cb8-15"><a href="#cb8-15" aria-hidden="true" tabindex="-1"></a>  <span class="fu">labs</span>(<span class="at">color =</span> <span class="fu">expression</span>(<span class="fu">italic</span>(<span class="st">&quot;Iris&quot;</span>)<span class="sc">*</span><span class="st">&quot; species&quot;</span>)) <span class="sc">+</span></span>
+<span id="cb8-16"><a href="#cb8-16" aria-hidden="true" tabindex="-1"></a>  <span class="fu">scale_focus_plus</span>(<span class="at">aes =</span> <span class="st">&quot;color&quot;</span>, </span>
+<span id="cb8-17"><a href="#cb8-17" aria-hidden="true" tabindex="-1"></a>                   <span class="at">group_var =</span> iris<span class="sc">$</span>Species, <span class="co">#&lt;--HELP THE FUNCTION UNDERSTAND YOUR DATA.</span></span>
+<span id="cb8-18"><a href="#cb8-18" aria-hidden="true" tabindex="-1"></a>                   <span class="at">focal_groups =</span> <span class="st">&quot;versicolor&quot;</span>,</span>
+<span id="cb8-19"><a href="#cb8-19" aria-hidden="true" tabindex="-1"></a>                   <span class="at">diff_nonfocal =</span> <span class="cn">TRUE</span> <span class="co">#&lt;--KEEP NON-FOCAL GROUPS DISTINCT.</span></span>
+<span id="cb8-20"><a href="#cb8-20" aria-hidden="true" tabindex="-1"></a>                  )</span></code></pre></div>
 <div class="cell-output-display">
 <div>
-<figure class="figure">
-<p><img src="README_files/figure-html/new%20shapes-1.png" class="img-fluid figure-img" width="672"></p>
+<figure>
+<p><img src="README_files/figure-html/focus%20plus-1.png" class="img-fluid" width="672" /></p>
 </figure>
 </div>
 </div>
 </div>
-<p>The above graphs demonstrates how <code>ggplotplus</code>’s tools rethink the default design features of <code>ggplot2</code>. The intention is to yield a more opinionated, more universal product more quickly so you can spend less time fiddling with your graphs than you otherwise might.</p>
-<p>However, there’s a <em>lot</em> more to know! If you want to dive deeper, please <a href="https://maisrc.github.io/ggplotplus/">check out the full package guide</a>.</p>
+<p>In this version, our eyes can’t help but be drawn to the brightly colored group first, helping us to understand the message of your graph quicker.</p>
+<section id="try-out-new-shapes" class="level3">
+<h3>Try out new shapes</h3>
+<p><code>ggplotplus</code> also introduces a new palette of shapes designed to be more distinctive than base R’s point shapes. Access these via <code>geom_point_plus()</code>:</p>
+<div class="cell">
+<div class="sourceCode" id="cb9"><pre class="sourceCode r cell-code"><code class="sourceCode r"><span id="cb9-1"><a href="#cb9-1" aria-hidden="true" tabindex="-1"></a><span class="fu">ggplot</span>(iris, </span>
+<span id="cb9-2"><a href="#cb9-2" aria-hidden="true" tabindex="-1"></a>       <span class="at">mapping =</span> <span class="fu">aes</span>(<span class="at">x =</span> Petal.Length, </span>
+<span id="cb9-3"><a href="#cb9-3" aria-hidden="true" tabindex="-1"></a>                     <span class="at">y =</span> Sepal.Length)) <span class="sc">+</span></span>
+<span id="cb9-4"><a href="#cb9-4" aria-hidden="true" tabindex="-1"></a>  <span class="fu">geom_point_plus</span>( <span class="co">#&lt;--SWITCH TO THIS FUNCTION TO ACCESS THE NEW SHAPES</span></span>
+<span id="cb9-5"><a href="#cb9-5" aria-hidden="true" tabindex="-1"></a>    <span class="at">mapping =</span> <span class="fu">aes</span>(<span class="at">shape =</span> Species, <span class="co">#&lt;--YOU MUST MAP SHAPE HERE TO A VARIABLE OR CONSTANT</span></span>
+<span id="cb9-6"><a href="#cb9-6" aria-hidden="true" tabindex="-1"></a>                  <span class="at">fill =</span> Species),</span>
+<span id="cb9-7"><a href="#cb9-7" aria-hidden="true" tabindex="-1"></a>    <span class="at">chosen_shapes =</span> <span class="fu">c</span>(<span class="st">&quot;squircle&quot;</span>, <span class="co">#&lt;--CHOOSE YOUR CUSTOM SHAPES, IF DESIRED.</span></span>
+<span id="cb9-8"><a href="#cb9-8" aria-hidden="true" tabindex="-1"></a>                      <span class="st">&quot;waffle&quot;</span>,</span>
+<span id="cb9-9"><a href="#cb9-9" aria-hidden="true" tabindex="-1"></a>                      <span class="st">&quot;oval&quot;</span>),</span>
+<span id="cb9-10"><a href="#cb9-10" aria-hidden="true" tabindex="-1"></a>    <span class="at">alpha =</span> <span class="fl">0.7</span></span>
+<span id="cb9-11"><a href="#cb9-11" aria-hidden="true" tabindex="-1"></a>    ) <span class="sc">+</span> </span>
+<span id="cb9-12"><a href="#cb9-12" aria-hidden="true" tabindex="-1"></a>  <span class="fu">theme_plus</span>() <span class="sc">+</span></span>
+<span id="cb9-13"><a href="#cb9-13" aria-hidden="true" tabindex="-1"></a>  <span class="fu">scale_continuous_plus</span>(</span>
+<span id="cb9-14"><a href="#cb9-14" aria-hidden="true" tabindex="-1"></a>    <span class="at">scale =</span> <span class="st">&quot;x&quot;</span>,</span>
+<span id="cb9-15"><a href="#cb9-15" aria-hidden="true" tabindex="-1"></a>    <span class="at">name =</span> <span class="st">&quot;Petal length (cm)&quot;</span>,</span>
+<span id="cb9-16"><a href="#cb9-16" aria-hidden="true" tabindex="-1"></a>    <span class="at">thin.labels =</span> <span class="cn">TRUE</span>) <span class="sc">+</span>  </span>
+<span id="cb9-17"><a href="#cb9-17" aria-hidden="true" tabindex="-1"></a>  <span class="fu">scale_continuous_plus</span>(</span>
+<span id="cb9-18"><a href="#cb9-18" aria-hidden="true" tabindex="-1"></a>    <span class="at">scale =</span> <span class="st">&quot;y&quot;</span>, </span>
+<span id="cb9-19"><a href="#cb9-19" aria-hidden="true" tabindex="-1"></a>    <span class="at">name =</span> <span class="st">&quot;Sepal length (cm)&quot;</span>) <span class="sc">+</span></span>
+<span id="cb9-20"><a href="#cb9-20" aria-hidden="true" tabindex="-1"></a>  <span class="fu">yaxis_title_plus</span>() <span class="sc">+</span></span>
+<span id="cb9-21"><a href="#cb9-21" aria-hidden="true" tabindex="-1"></a>  <span class="fu">gridlines_plus</span>() <span class="sc">+</span></span>
+<span id="cb9-22"><a href="#cb9-22" aria-hidden="true" tabindex="-1"></a>  <span class="fu">labs</span>(<span class="at">fill =</span> <span class="fu">expression</span>(<span class="fu">italic</span>(<span class="st">&quot;Iris&quot;</span>)<span class="sc">*</span><span class="st">&quot; species&quot;</span>), <span class="co">#&lt;--WE NEED BOTH FILL AND SHAPE SCALES TO MATCH IN NAME EXACTLY FOR THEM TO COLLAPSE INTO 1.</span></span>
+<span id="cb9-23"><a href="#cb9-23" aria-hidden="true" tabindex="-1"></a>       <span class="at">shape =</span> <span class="fu">expression</span>(<span class="fu">italic</span>(<span class="st">&quot;Iris&quot;</span>)<span class="sc">*</span><span class="st">&quot; species&quot;</span>))</span></code></pre></div>
+<div class="cell-output-display">
+<div>
+<figure>
+<p><img src="README_files/figure-html/new%20shapes-1.png" class="img-fluid" width="672" /></p>
+</figure>
+</div>
+</div>
+</div>
+<p>The distinctiveness of these shapes makes them quick to distinguish, even without the aid of differing colors.</p>
+<p>The above graphs demonstrates how <code>ggplotplus</code>’s tools rethink the default design features of <code>ggplot2</code>. The intention is to yield a more universal product more quickly so you can spend less time fiddling with your graphs and more time sharing them with a wider audience.</p>
+<p>However, there’s a <em>lot</em> more to know! If you want to dive deeper, <a href="https://maisrc.github.io/ggplotplus/">check out the full package cookbook</a>.</p>
 </section>
 </section>
 <section id="development" class="level2">
-<h2 class="anchored" data-anchor-id="development">Development</h2>
-<p><code>ggplotplus</code> is currently under active development. Core functions are expected to remain relatively stable, but some parameters, features, and default settings may continue to evolve rapidly, and addressing bugs, inconsistencies, and gaps remains a high priority.</p>
+<h2>Development</h2>
+<p><code>ggplotplus</code> is under active development. All current core functions are expected to remain relatively stable, but some parameters, features, and default settings may evolve, and addressing bugs, inconsistencies, and gaps remains a high priority. User discretion and feedback is advised! Please don’t hesitate to share bug reports or questionable performance issues via the Issues feature on the package’s Github page.</p>
 </section>
 <section id="acknowledgments" class="level2">
-<h2 class="anchored" data-anchor-id="acknowledgments">Acknowledgments</h2>
-<p>Thanks to Allan Cameron (<span class="citation" data-cites="Allan">@Allan</span> Cameron) for answers to Stack Overflow questions 79654995 and 79682150, which provided key coding elements enabling the functionality of <code>yaxis_title_plus()</code> and <code>geom_point_plus()</code>. Also, many thanks to Dr.&nbsp;Grant Vagle, who frequently provides testing and feedback on the development of this package.</p>
+<h2>Acknowledgments</h2>
+<p>Thanks to Allan Cameron (<span class="citation" data-cites="Allan">@Allan</span> Cameron) for answers to Stack Overflow questions 79654995 and 79682150, which provided key coding elements enabling the functionality of <code>yaxis_title_plus()</code> and <code>geom_point_plus()</code>. Also, many thanks to Dr. Grant Vagle, who frequently provided testing and feedback on the development of this package.</p>
 </section>
 </section>
 
 </main>
 <!-- /main column -->
-<script id="quarto-html-after-body" type="application/javascript">
+<script id = "quarto-html-after-body" type="application/javascript">
   window.document.addEventListener("DOMContentLoaded", function (event) {
     const icon = "";
     const anchorJS = new window.AnchorJS();
@@ -697,7 +718,6 @@ pre > code.sourceCode > span > a:first-child::before { text-decoration: underlin
   </script>
 </div> <!-- /content -->
 
+</body>
 
-
-
-</body></html>
+</html>
